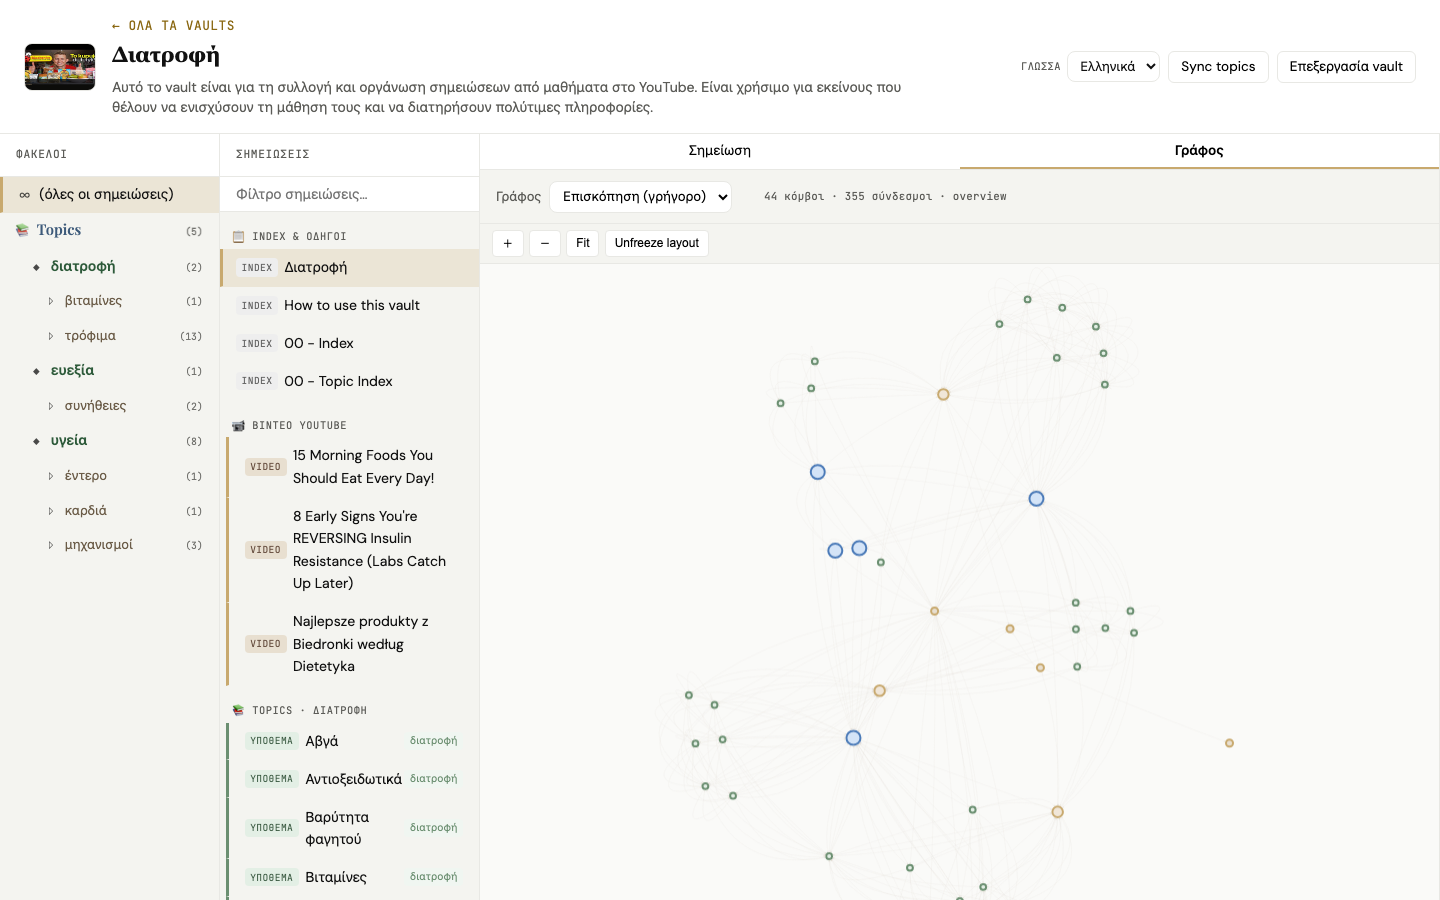
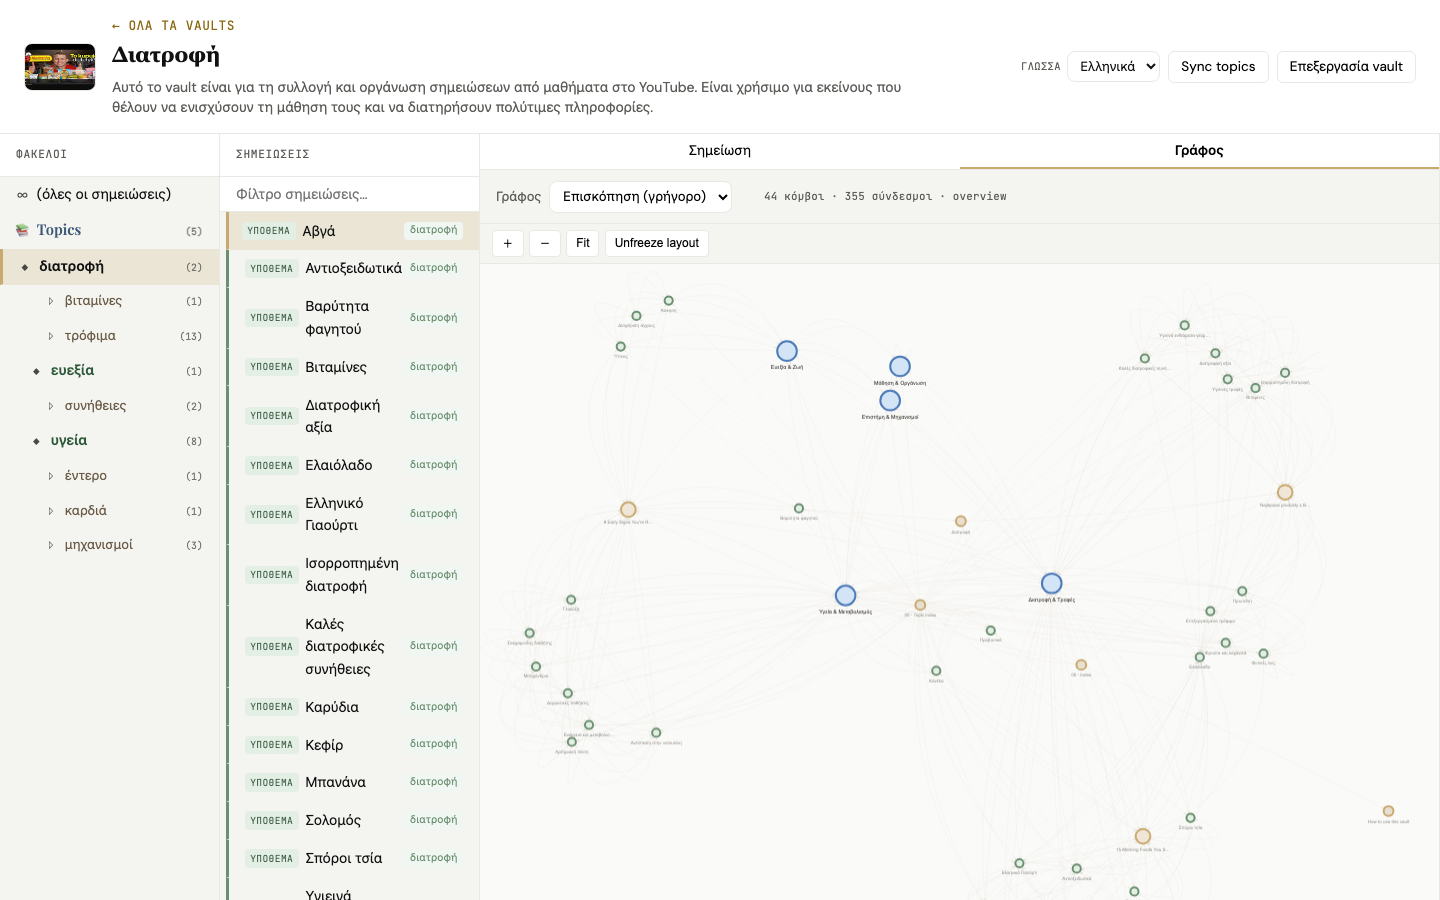
Add comprehensive dashboard screenshots and visual walkthrough.
Capture 18 web app screenshots (home, ingest, vault cards, explorer, topic/video
notes with video frames, graph scopes, Ol In vault, edit modes). Expand
USER_WALKTHROUGH and README galleries; add screenshot capture script.

diff --git a/scripts/capture_dashboard_screenshots.py b/scripts/capture_dashboard_screenshots.py
@@ -1,0 +1,107 @@
+#!/usr/bin/env python3
+"""Capture dashboard screenshots for docs/USER_WALKTHROUGH.md and README.
+
+Requires: dashboard running at http://127.0.0.1:8787, playwright installed in .venv.
+
+Usage:
+    ./run_dashboard.sh   # in another terminal
+    .venv/bin/python scripts/capture_dashboard_screenshots.py
+"""
+from __future__ import annotations
+
+import asyncio
+import sys
+from pathlib import Path
+
+ROOT = Path(__file__).resolve().parent.parent
+sys.path.insert(0, str(ROOT))
+
+OUT = ROOT / "docs" / "screenshots"
+BASE = "http://127.0.0.1:8787"
+
+
+async def main() -> None:
+    from playwright.async_api import async_playwright
+    from dashboard.services.vault_scanner import encode_vault_id
+
+    sample = ROOT / "data" / "proswpikesshmeiwseismathshs" / "vault"
+    if not sample.is_dir():
+        print("Sample vault missing; run pipeline or ingest first.", file=sys.stderr)
+        sys.exit(1)
+    vault_id = encode_vault_id(sample.resolve())
+    OUT.mkdir(parents=True, exist_ok=True)
+
+    async with async_playwright() as p:
+        browser = await p.chromium.launch(headless=True)
+        page = await browser.new_page(viewport={"width": 1440, "height": 900})
+
+        async def shot(name: str, full: bool = False) -> None:
+            await page.screenshot(path=str(OUT / name), full_page=full)
+            print(f"  {name}")
+
+        await page.goto(BASE, wait_until="networkidle", timeout=60000)
+        await page.wait_for_timeout(1200)
+        await shot("01-dashboard-home.png", full=True)
+        await page.locator('input[value="manual"]').click()
+        await page.wait_for_timeout(300)
+        await shot("05-ingest-new-vault-form.png")
+        await page.goto(BASE, wait_until="networkidle")
+        await page.locator("#vault-grid").scroll_into_view_if_needed()
+        await page.locator("#vault-grid").screenshot(path=str(OUT / "06-vault-cards.png"))
+        print("  06-vault-cards.png")
+        await page.locator("[data-action='edit']").first.click()
+        await page.wait_for_timeout(500)
+        await page.locator("#vault-edit-modal .modal-card").screenshot(path=str(OUT / "07-edit-vault-modal.png"))
+        print("  07-edit-vault-modal.png")
+
+        await page.goto(f"{BASE}/explorer?vault={vault_id}", wait_until="networkidle")
+        await page.wait_for_timeout(1500)
+        topics = page.locator('.tree-item[data-folder="Topics/διατροφή"]')
+        if await topics.count():
+            await topics.click()
+            await page.wait_for_timeout(600)
+        await shot("08-explorer-topics-tree.png")
+
+        for label in ("00 - Index", "Index"):
+            item = page.locator("#note-list .note-item").filter(has_text=label).first
+            if await item.count():
+                await item.click()
+                await page.wait_for_timeout(1000)
+                await shot("09-explorer-index-note.png")
+                break
+
+        item = page.locator("#note-list .note-item").filter(has_text="διατροφή").first
+        if await item.count():
+            await item.click()
+            await page.wait_for_timeout(1000)
+            await shot("10-explorer-topic-note.png")
+
+        item = page.locator("#note-list .note-item").filter(has_text="Insulin").first
+        if await item.count():
+            await item.click()
+            await page.wait_for_timeout(1500)
+            await page.evaluate("document.getElementById('note-content')?.scrollTo(0, 350)")
+            await page.locator(".pane.note-pane").screenshot(path=str(OUT / "11-explorer-video-note-frames.png"))
+            print("  11-explorer-video-note-frames.png")
+
+        await shot("02-explorer-note.png")
+        await page.locator('.pane-tab[data-tab="graph"]').click()
+        await page.wait_for_timeout(3000)
+        await shot("03-explorer-graph.png")
+        await page.select_option("#graph-scope", "theme")
+        await page.wait_for_timeout(2500)
+        await shot("04-graph-theme-scope.png")
+        await page.select_option("#graph-scope", "full")
+        await page.wait_for_timeout(2500)
+        await shot("13-graph-full-scope.png")
+        await page.select_option("#ui-lang", "en")
+        await page.locator('.pane-tab[data-tab="note"]').click()
+        await page.wait_for_timeout(800)
+        await shot("12-explorer-english-ui.png")
+
+        await browser.close()
+    print(f"Done — {len(list(OUT.glob('*.png')))} PNG files in docs/screenshots/")
+
+
+if __name__ == "__main__":
+    asyncio.run(main())

diff --git a/docs/USER_WALKTHROUGH.md b/docs/USER_WALKTHROUGH.md
@@ -4,6 +4,25 @@ Step-by-step guide for using the **local Vault Dashboard** (`http://127.0.0.1:87
 
 ---
 
+## Visual tour (screenshots)
+
+| | |
+|---|---|
+| **Home** — ingest form + all vault cards | ![Home](screenshots/01-dashboard-home.png) |
+| **Vault cards** — cover, themes, stats | ![Vault cards](screenshots/06-vault-cards.png) |
+| **New vault form** — name & description before ingest | ![Ingest form](screenshots/05-ingest-new-vault-form.png) |
+| **Explorer** — folder tree + note list + reading a note | ![Explorer](screenshots/08-explorer-topics-tree.png) |
+| **Index note** — entry point for every vault | ![Index](screenshots/09-explorer-index-note.png) |
+| **Topic note** — theme MOC with linked episodes | ![Topic](screenshots/10-explorer-topic-note.png) |
+| **Video note** — summary + key frames from the video | ![Video note](screenshots/11-explorer-video-note-frames.png) |
+| **Graph (overview)** — themes, videos, links | ![Graph overview](screenshots/03-explorer-graph.png) |
+| **Graph (theme scope)** — zoom into one theme folder | ![Graph theme](screenshots/04-graph-theme-scope.png) |
+| **Graph (full)** — every note and wikilink | ![Graph full](screenshots/13-graph-full-scope.png) |
+| **Ολ Ιν vault** — 50+ episode business playlist | ![Ol In index](screenshots/14-ol-in-index-note.png) |
+| **Ολ Ιν graph** — large playlist link map | ![Ol In graph](screenshots/15-ol-in-graph.png) |
+
+---
+
 ## 1. Start the dashboard
 
 From the project folder:
@@ -43,7 +62,9 @@ The dashboard discovers vaults from:
 - `Vaults/*/` — local Obsidian vault roots you keep in the repo
 - `OBSIDIAN_VAULT_PATH` in `.env` — your main Obsidian vault (if configured)
 
-Each card shows the vault name, description, note count, and a cover thumbnail when available.
+Each card shows the vault name, description, note count, cover thumbnail, and theme chips.
+
+![Vault cards with covers and theme tags](screenshots/06-vault-cards.png)
 
 ---
 
@@ -56,9 +77,11 @@ Each card shows the vault name, description, note count, and a cover thumbnail w
    - **New vault — auto from first video** — name, description, and starter themes are suggested after enrichment.
 3. Click **Ingest video**.
 
+![Creating a new vault before ingest](screenshots/05-ingest-new-vault-form.png)
+
 Requirements:
 
-- `ffmpeg` on your PATH (for optional frame screenshots in notes).
+- `ffmpeg` on your PATH (for optional frame screenshots embedded in notes).
 - `OPENAI_API_KEY` or `GEMINI_API_KEY` in `.env` for transcript enrichment.
 
 Progress appears under the form. When finished, the new note appears in the vault and the card list refreshes.
@@ -67,7 +90,7 @@ Progress appears under the form. When finished, the new note appears in the vaul
 
 ## 4. Open a vault (Explorer)
 
-Click a vault card (anywhere except ✎ or Delete).
+Click a vault card (anywhere except **Edit** or **Delete**).
 
 The **Explorer** has three columns:
 
@@ -77,16 +100,22 @@ The **Explorer** has three columns:
 | **Notes** | Searchable list of Markdown notes in the current folder |
 | **Note / Graph** | Read or edit the selected note, or view the link graph |
 
-![Explorer — reading a note](screenshots/02-explorer-note.png)
+![Explorer — Topics folder tree and note list](screenshots/08-explorer-topics-tree.png)
 
 ### Reading notes
 
 - Click a note in the list to open it.
 - **Wikilinks** `[[like this]]` are clickable — unresolved links are highlighted.
-- Images in notes load from the vault assets folder.
+- Images in notes load from the vault assets folder (frames captured from the video).
 - **Backlinks** appear at the bottom when other notes link here.
 
 Start with **`00 - Index.md`** or **`00 - Topic Index.md`** when you open a vault for the first time.
+
+![Index note — links to every episode and artifact](screenshots/09-explorer-index-note.png)
+
+![Topic note — Mentioned in episodes + related topics](screenshots/10-explorer-topic-note.png)
+
+![Video note — summary, key ideas, and frame screenshots from the video](screenshots/11-explorer-video-note-frames.png)
 
 ### Editing notes
 
@@ -94,9 +123,14 @@ Start with **`00 - Index.md`** or **`00 - Topic Index.md`** when you open a vaul
 2. Click **Edit** → change Markdown in the editor → **Save**.
 3. **Delete** removes the note (with confirmation).
 
+![Note edit mode](screenshots/18-note-edit-mode.png)
+
 ### Vault metadata
 
-- **Edit vault** (header) — change name, description, comma-separated themes.
+- **Edit vault** (header or ✎ on home card) — change name, description, comma-separated themes.
+
+![Edit vault dialog](screenshots/07-edit-vault-modal.png)
+
 - **Sync topics** — rebuild topic notes under `Topics/` from episode wikilinks (useful after bulk imports).
 
 ---
@@ -118,6 +152,8 @@ Click the **Graph** tab in the right pane.
 
 ![Graph — theme scope](screenshots/04-graph-theme-scope.png)
 
+![Graph — full scope (all notes)](screenshots/13-graph-full-scope.png)
+
 ### Graph controls
 
 - **＋ / －** — zoom in and out  
@@ -128,6 +164,14 @@ Click the **Graph** tab in the right pane.
 
 Tip: select a folder under `Topics/YourTheme/` before switching to **Current theme** or **Current subtopic** scope.
 
+### Large playlist example (Ολ Ιν)
+
+A 50+ video Greek business podcast vault shows how the graph scales:
+
+![Ολ Ιν index](screenshots/14-ol-in-index-note.png)
+
+![Ολ Ιν graph — videos linked to themes](screenshots/15-ol-in-graph.png)
+
 ---
 
 ## 6. Language (Greek / English)
@@ -136,6 +180,8 @@ Use the **Γλώσσα / Language** dropdown in the header (home and explorer).
 
 - UI labels, buttons, and section headers in notes switch between Greek and English.
 - Episode body text stays in the language chosen at ingest time (`OUTPUT_LANGUAGE` in `.env`).
+
+![Explorer with English UI labels](screenshots/12-explorer-english-ui.png)
 
 ---
 
@@ -187,3 +233,5 @@ The dashboard graph and Obsidian’s graph are different: the dashboard graph is
 7. [ ] Optional: open the same folder in Obsidian
 
 For automated checks: `pytest tests/` (includes graph tab browser test when Playwright is installed).
+
+To regenerate screenshots: `.venv/bin/python scripts/capture_dashboard_screenshots.py` (dashboard must be running).

diff --git a/README.md b/README.md
@@ -368,13 +368,29 @@ pip install -r requirements.txt   # includes fastapi + uvicorn
 
 ### Dashboard screenshots
 
-| Home — ingest & vault cards | Explorer — note view | Graph — link view |
-|-----------------------------|----------------------|-------------------|
-| ![Dashboard home](docs/screenshots/01-dashboard-home.png) | ![Explorer note](docs/screenshots/02-explorer-note.png) | ![Graph view](docs/screenshots/03-explorer-graph.png) |
+**Start here:** [`docs/USER_WALKTHROUGH.md`](docs/USER_WALKTHROUGH.md) — full visual tour with 18 annotated screenshots.
 
-Theme-scoped graph (select a `Topics/…` folder first):
+| Home — ingest + vault library | Vault cards (covers & themes) | Ingest — create new vault |
+|:---:|:---:|:---:|
+| ![Home](docs/screenshots/01-dashboard-home.png) | ![Cards](docs/screenshots/06-vault-cards.png) | ![Ingest](docs/screenshots/05-ingest-new-vault-form.png) |
 
-![Graph theme scope](docs/screenshots/04-graph-theme-scope.png)
+| Explorer — Topics tree | Index note | Video note + frame captures |
+|:---:|:---:|:---:|
+| ![Tree](docs/screenshots/08-explorer-topics-tree.png) | ![Index](docs/screenshots/09-explorer-index-note.png) | ![Video](docs/screenshots/11-explorer-video-note-frames.png) |
+
+| Graph overview | Graph — one theme | Graph — full vault |
+|:---:|:---:|:---:|
+| ![Graph](docs/screenshots/03-explorer-graph.png) | ![Theme graph](docs/screenshots/04-graph-theme-scope.png) | ![Full graph](docs/screenshots/13-graph-full-scope.png) |
+
+| Large playlist (Ολ Ιν) — index | Large playlist — graph |
+|:---:|:---:|
+| ![Ol In index](docs/screenshots/14-ol-in-index-note.png) | ![Ol In graph](docs/screenshots/15-ol-in-graph.png) |
+
+Regenerate screenshots anytime (dashboard must be running):
+
+```bash
+.venv/bin/python scripts/capture_dashboard_screenshots.py
+```
 
 **Discovers vaults from:**
 - `data/*/vault/` (pipeline experiments)

diff --git a/docs/OBSIDIAN_USAGE.md b/docs/OBSIDIAN_USAGE.md
@@ -2,7 +2,7 @@
 
 This guide explains what lands in your vault and how to use it day to day.
 
-**Also see:** [Vault Dashboard walkthrough](USER_WALKTHROUGH.md) for the local web UI (browse, graph, single-video ingest).
+**Also see:** [Vault Dashboard walkthrough](USER_WALKTHROUGH.md) (web UI screenshots) · [Obsidian graph examples](../README.md#vault-dashboard-local-web-ui)
 
 ---
 
